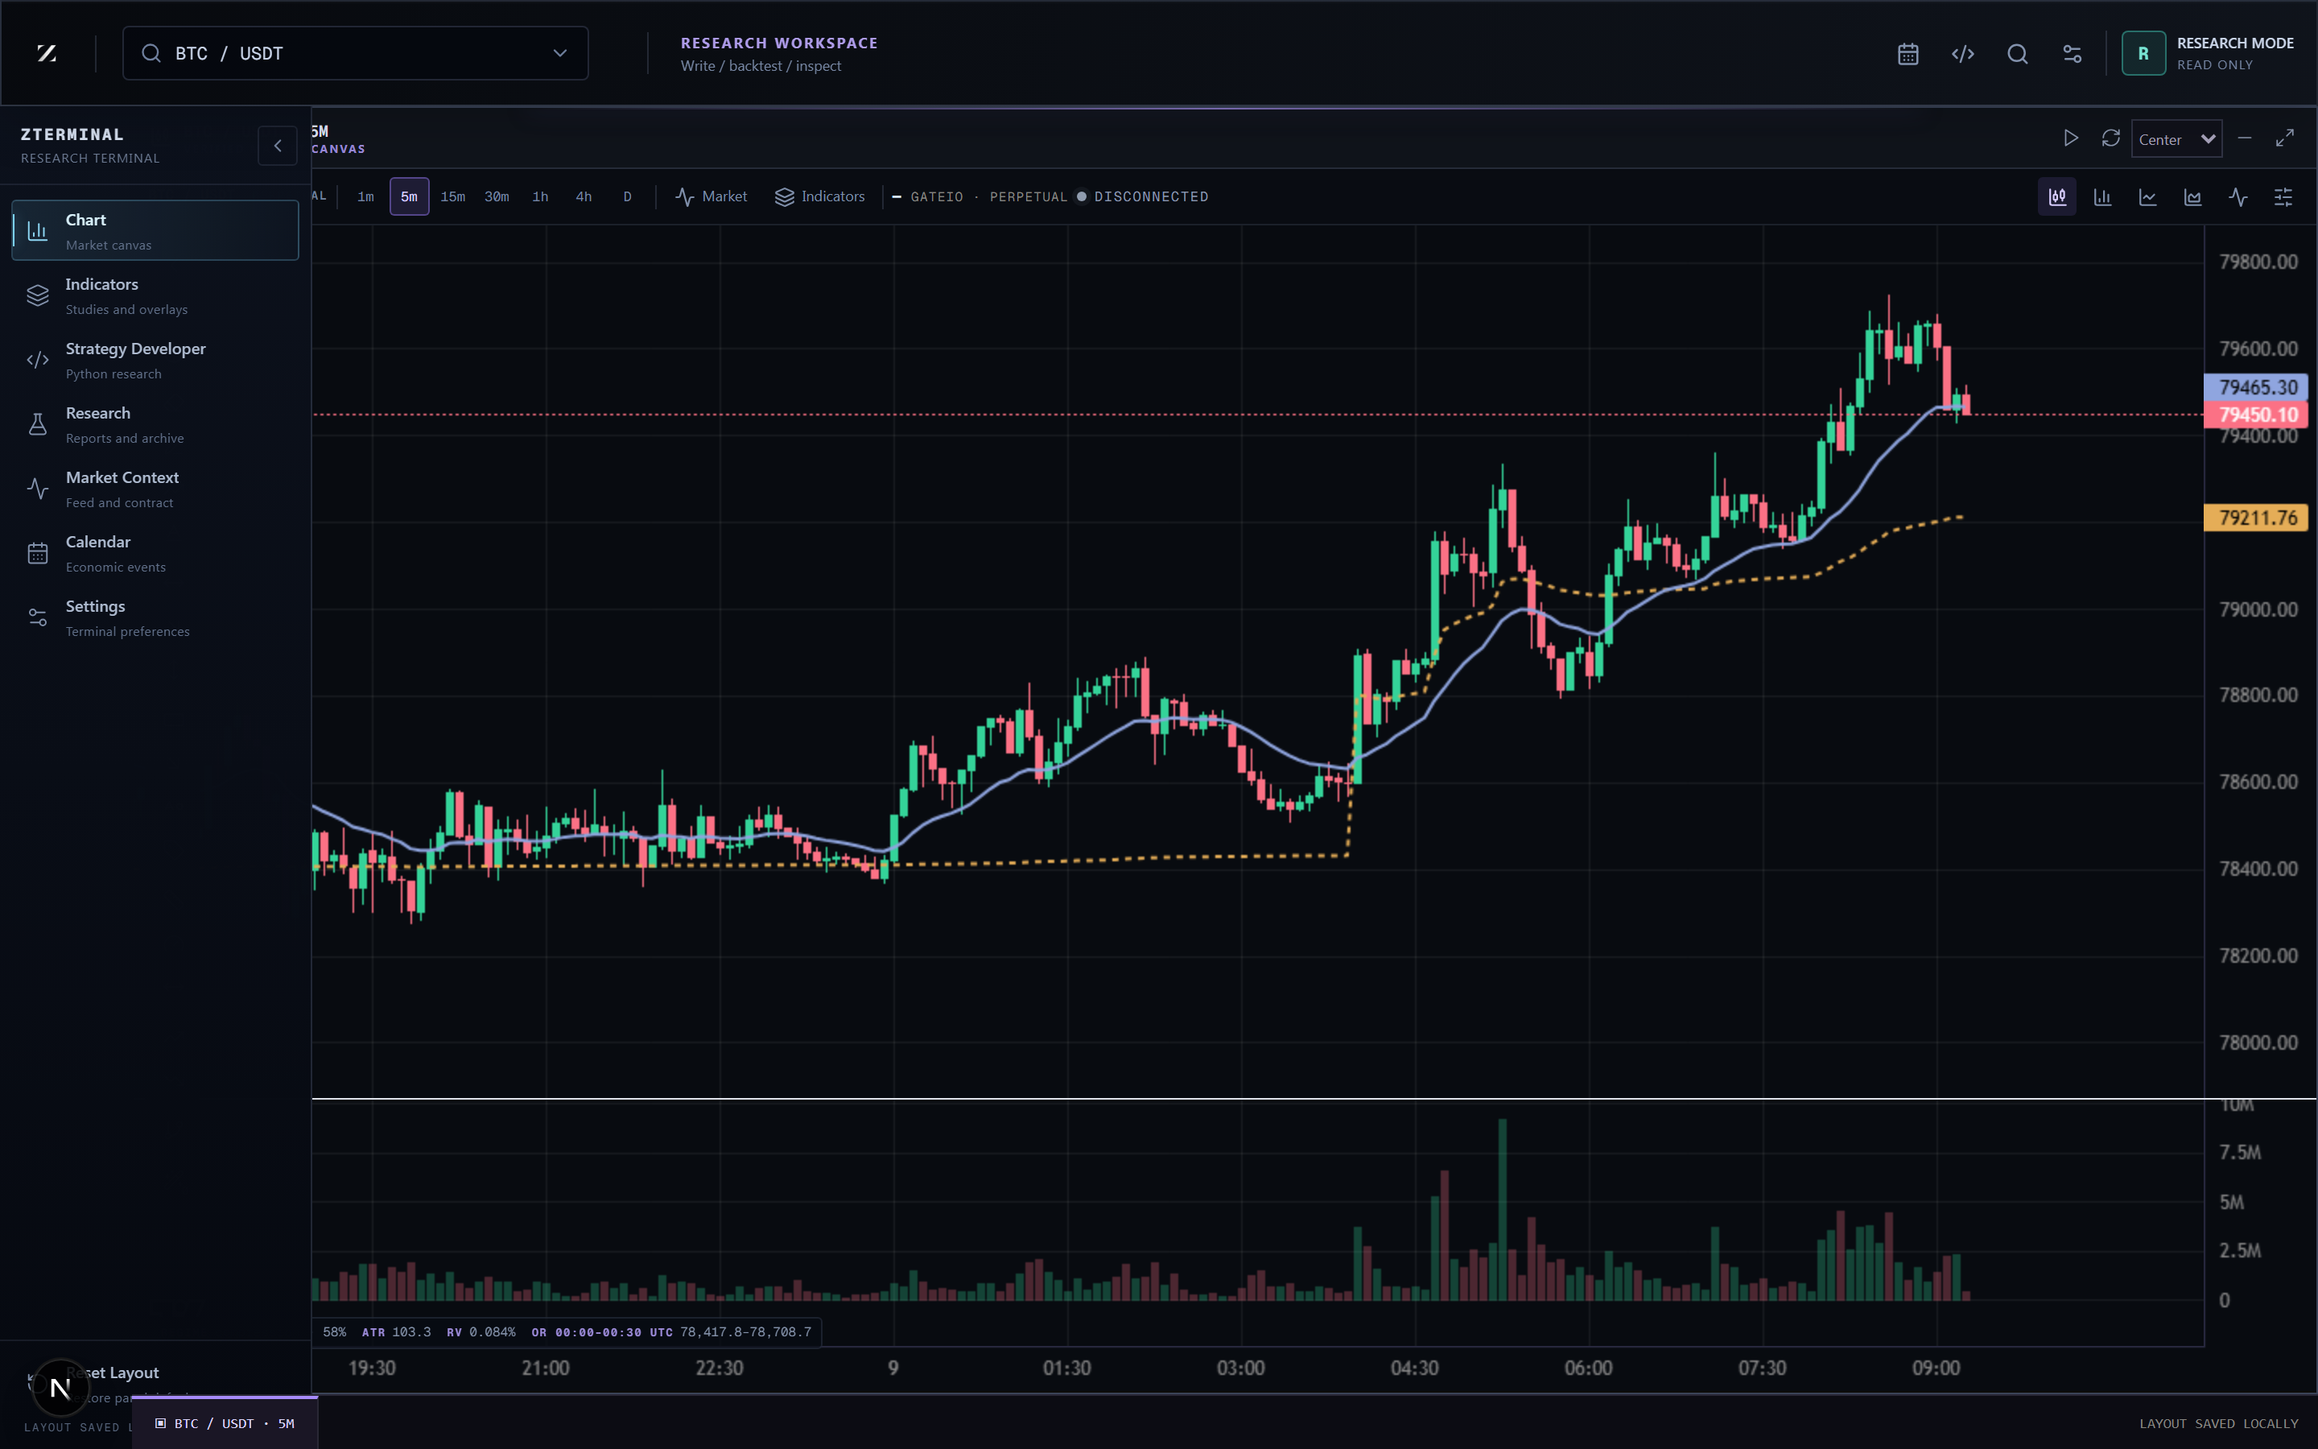
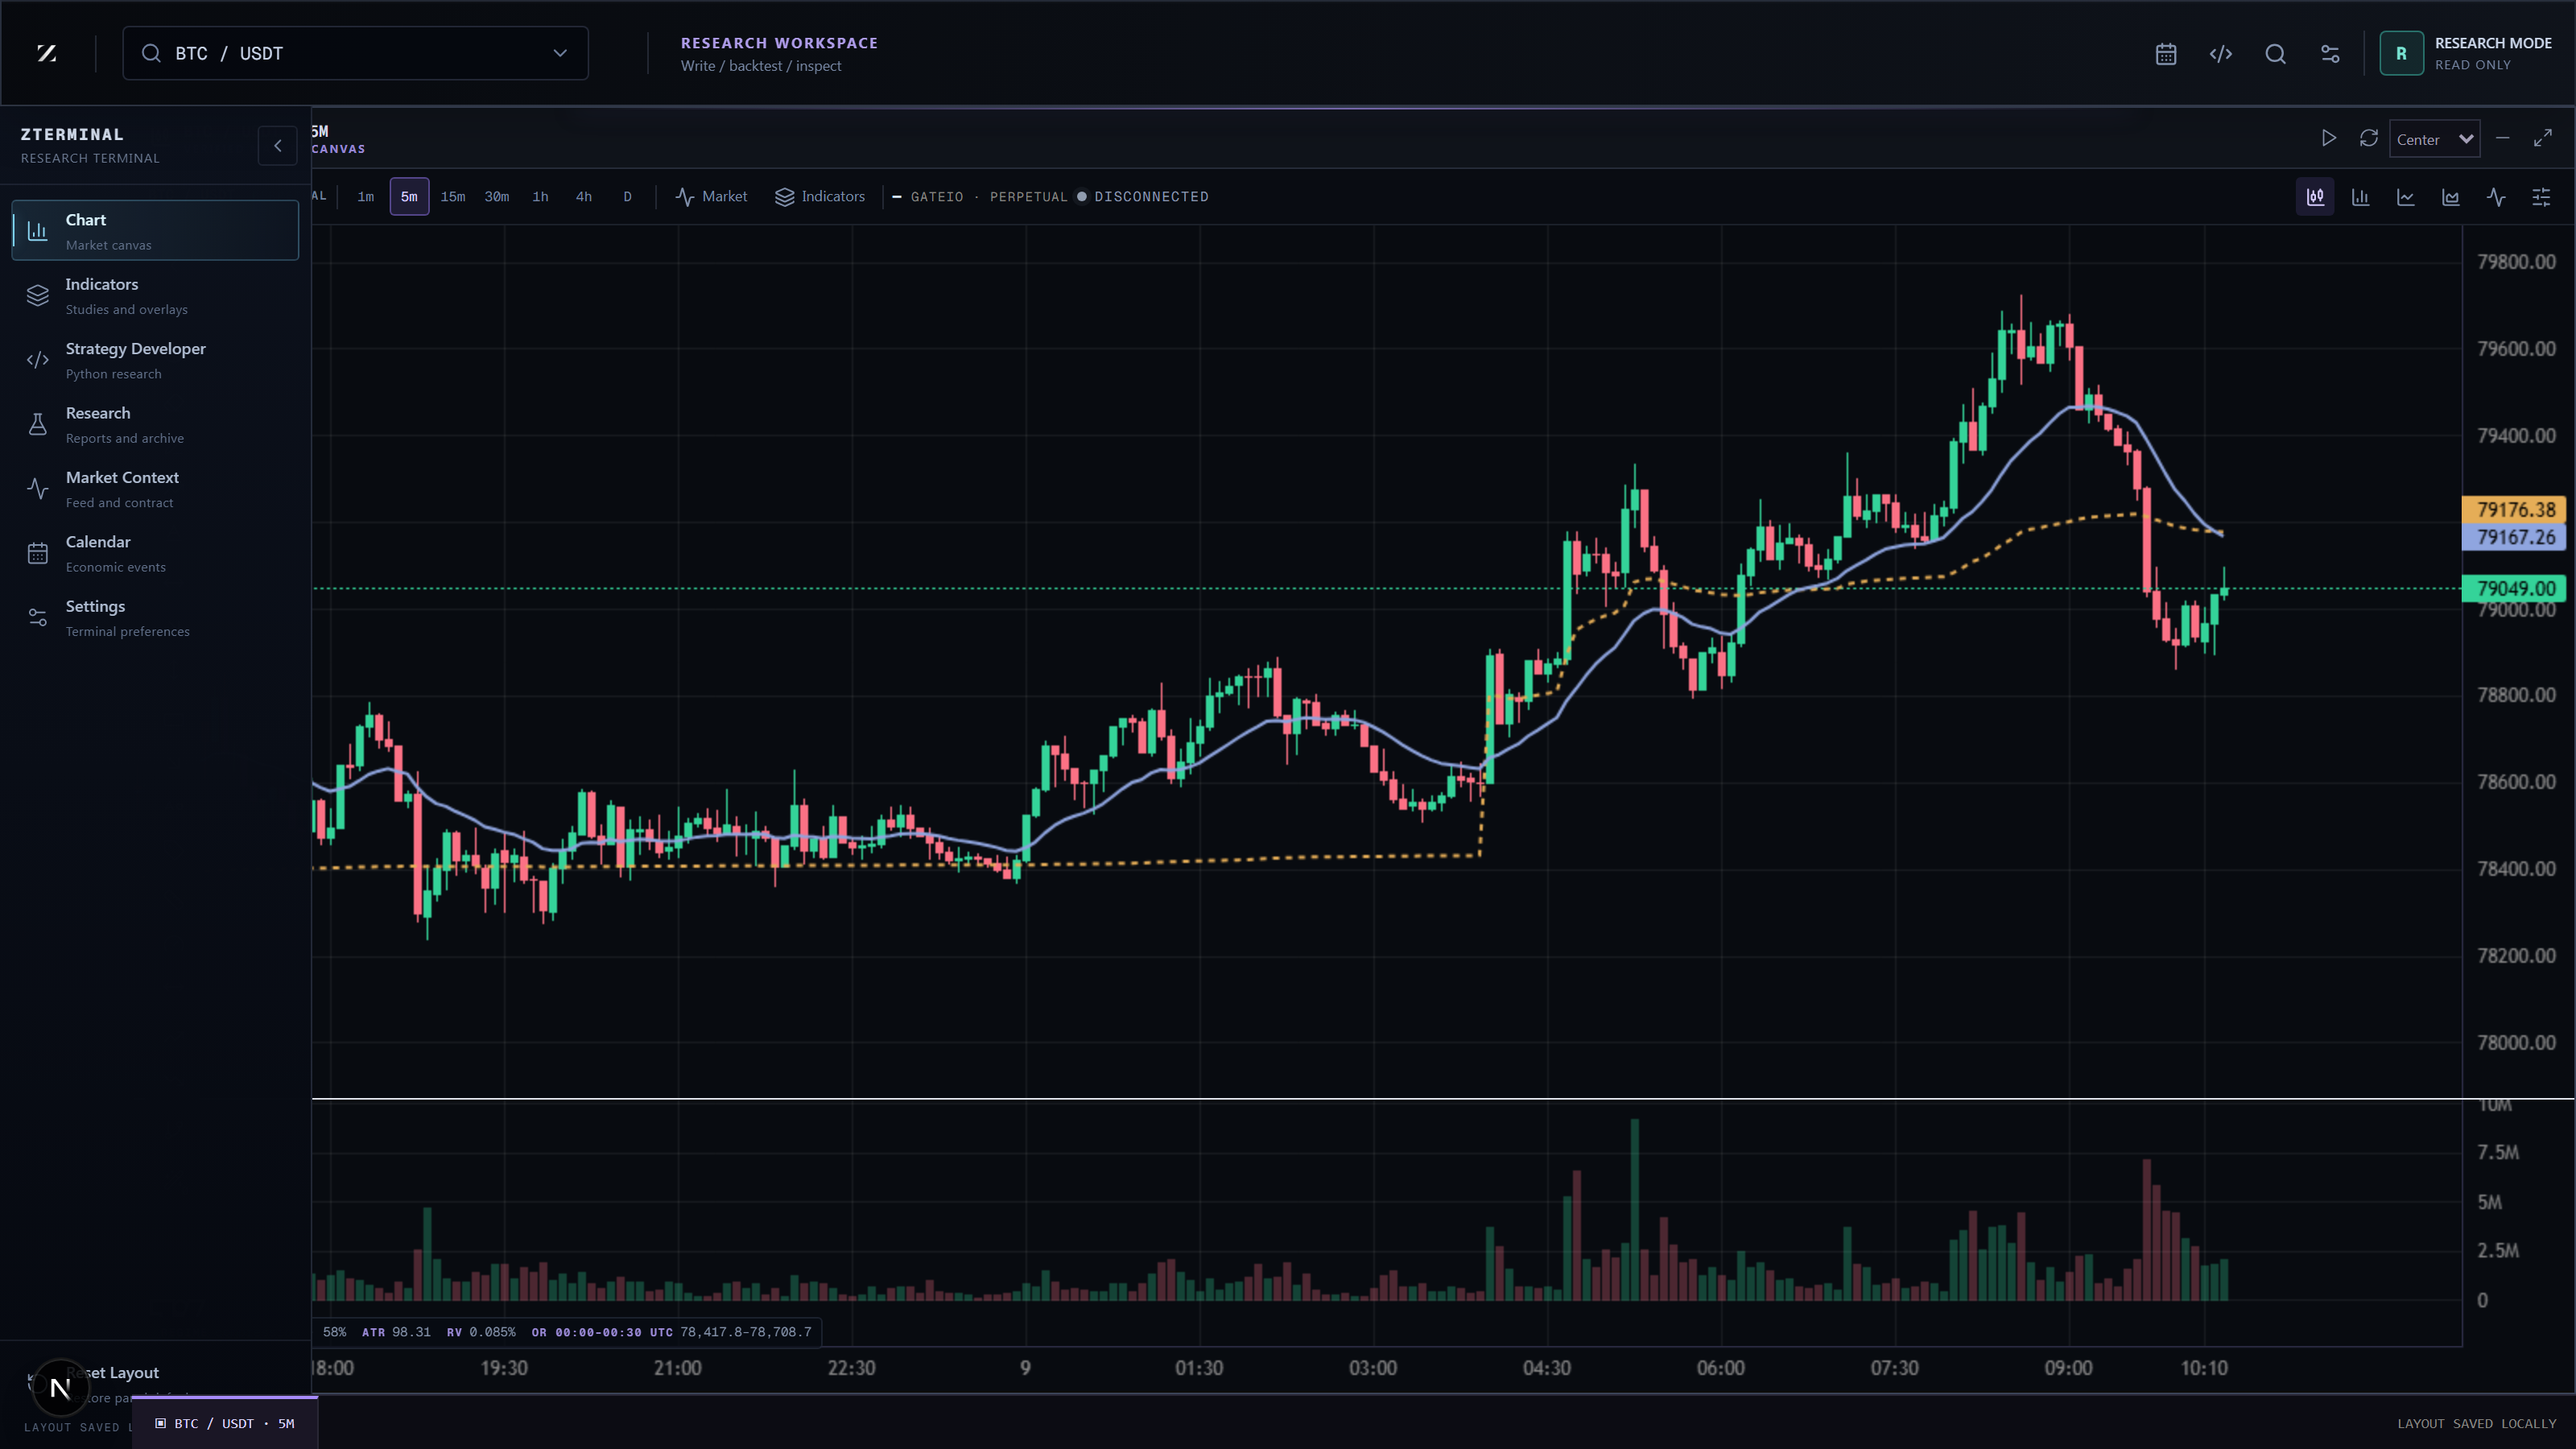
chore: update capture script and regenerate 1600x900 terminal screenshot

diff --git a/scripts/capture-terminal.js b/scripts/capture-terminal.js
@@ -6,7 +6,7 @@ async function run() {
   console.log('Launching browser...');
   const browser = await chromium.launch({ headless: true });
   const context = await browser.newContext({
-    viewport: { width: 1440, height: 900 },
+    viewport: { width: 1600, height: 900 },
     deviceScaleFactor: 2,
     colorScheme: 'dark'
   });
@@ -17,11 +17,14 @@ async function run() {
   
   await page.waitForTimeout(4000); // let charts load
   
-  const dest = path.join(__dirname, 'public', 'landing', 'terminal-screenshot.png');
+  const dest = path.join(__dirname, '..', 'public', 'landing', 'terminal-screenshot.png');
   await page.screenshot({ path: dest });
   
-  console.log('Done.');
+  console.log('Done. Captured at ' + dest);
   await browser.close();
 }
 
-run().catch(console.error);
+run().catch((e) => {
+  console.error(e);
+  process.exit(1);
+});
